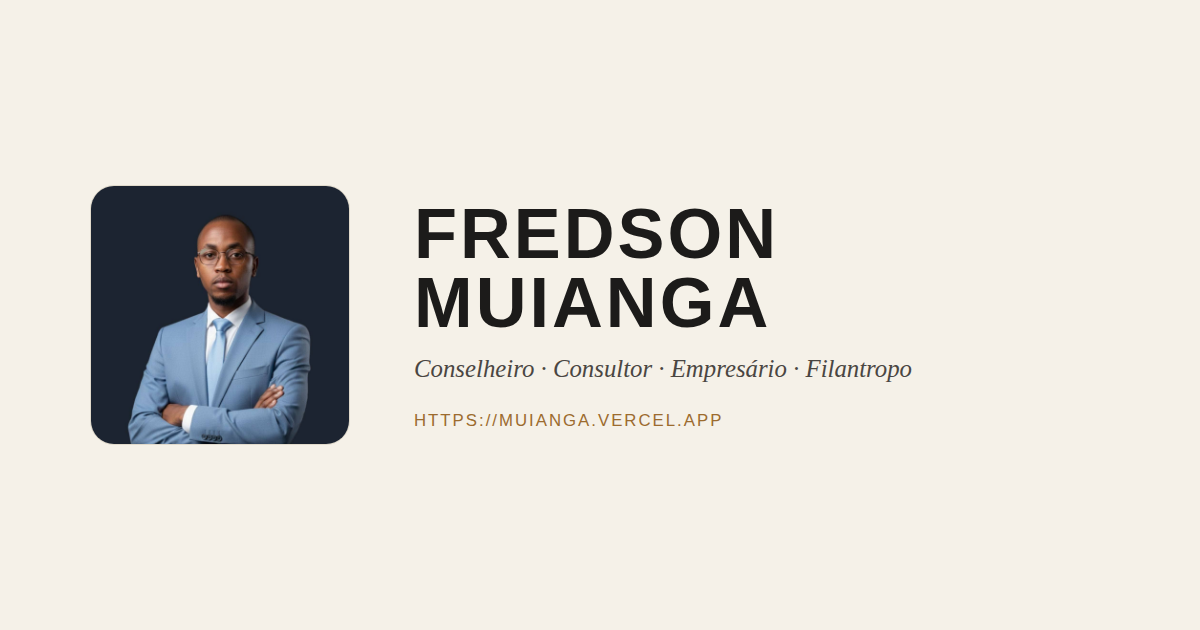
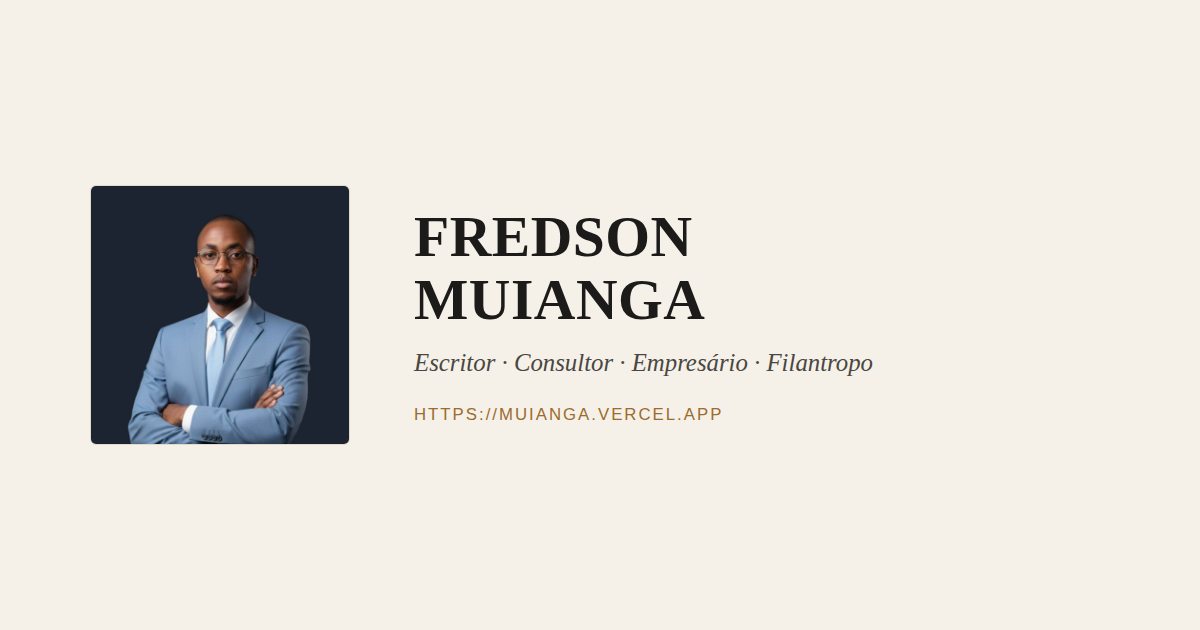
Executive redesign: serif type, sharper corners, new tagline
- Replaced Bebas Neue (condensed poster font) with Playfair Display
  for the name and avatar-fallback initials, both on the site and the
  OG share image — reads as consulting/executive rather than
  magazine-poster.
- Tightened border-radius across cards (socials, contacts, services,
  projects, CTA) for a more formal, less app-like feel.
- Tagline changed from "Conselheiro" to "Escritor" (Escritor ·
  Consultor · Empresário · Filantropo) everywhere it appears.
- Regenerated og-image.png with the new type and copy.

Claude-Session: https://claude.ai/code/session_0174u6W9GAKef4gqCUmcRGAT

diff --git a/og-image.html b/og-image.html
@@ -5,7 +5,7 @@
 <title>OG Image — Fredson Muianga</title>
 <link rel="preconnect" href="https://fonts.googleapis.com">
 <link rel="preconnect" href="https://fonts.gstatic.com" crossorigin>
-<link href="https://fonts.googleapis.com/css2?family=Bebas+Neue&family=Lora:ital@1&family=DM+Sans:wght@300;400;500&display=swap" rel="stylesheet">
+<link href="https://fonts.googleapis.com/css2?family=Playfair+Display:wght@600;700&family=Lora:ital@1&family=DM+Sans:wght@300;400;500&display=swap" rel="stylesheet">
 <style>
   * { box-sizing: border-box; margin: 0; padding: 0; }
   html, body {
@@ -27,7 +27,7 @@
     flex-shrink: 0;
     width: 260px;
     height: 260px;
-    border-radius: 24px;
+    border-radius: 6px;
     object-fit: cover;
     object-position: top center;
     border: 1px solid #E1DACB;
@@ -38,15 +38,17 @@
     display: flex;
     align-items: center;
     justify-content: center;
-    font-family: 'Bebas Neue', sans-serif;
-    font-size: 5rem;
+    font-family: 'Playfair Display', serif;
+    font-weight: 700;
+    font-size: 4.2rem;
   }
   .text { min-width: 0; }
   h1 {
-    font-family: 'Bebas Neue', sans-serif;
-    font-size: 4.4rem;
-    line-height: 0.98;
-    letter-spacing: 3px;
+    font-family: 'Playfair Display', serif;
+    font-weight: 700;
+    font-size: 3.6rem;
+    line-height: 1.1;
+    letter-spacing: 0.5px;
     color: #1C1B1A;
     margin-bottom: 18px;
   }
@@ -71,7 +73,7 @@
[1 lines of base64/hex data omitted]
     <div class="text">
       <h1>FREDSON<br>MUIANGA</h1>
-      <p class="tagline">Conselheiro · Consultor · Empresário · Filantropo</p>
+      <p class="tagline">Escritor · Consultor · Empresário · Filantropo</p>
       <p class="footer">https://muianga.vercel.app</p>
     </div>
   </div>

diff --git a/index.html b/index.html
@@ -4,7 +4,7 @@
 <meta charset="UTF-8">
 
 <meta property="og:type" content="profile">
-<meta property="og:title" content="Fredson Muianga — Conselheiro · Consultor · Empresário · Filantropo">
+<meta property="og:title" content="Fredson Muianga — Escritor · Consultor · Empresário · Filantropo">
 <meta property="og:description" content="Fundador da SonhoEuropa, Muianga Carreiras e ADIEP. Consultoria, Mentoria e Educação Digital em Maputo, Moçambique.">
 <meta property="og:image" content="https://muianga.vercel.app/og-image.png">
 <meta property="og:image:width" content="1200">
@@ -14,20 +14,20 @@
 <meta property="og:site_name" content="Fredson Muianga">
 
 <meta name="twitter:card" content="summary_large_image">
-<meta name="twitter:title" content="Fredson Muianga — Conselheiro · Consultor · Empresário · Filantropo">
+<meta name="twitter:title" content="Fredson Muianga — Escritor · Consultor · Empresário · Filantropo">
 <meta name="twitter:description" content="Fundador da SonhoEuropa, Muianga Carreiras e ADIEP. Consultoria, Mentoria e Educação Digital em Maputo, Moçambique.">
 <meta name="twitter:image" content="https://muianga.vercel.app/og-image.png">
 
-<meta name="description" content="Fredson Muianga — Conselheiro, Consultor, Empresário e Filantropo moçambicano. Fundador da SonhoEuropa, Muianga Carreiras, ADIEP e Muianga Consultores.">
+<meta name="description" content="Fredson Muianga — Escritor, Consultor, Empresário e Filantropo moçambicano. Fundador da SonhoEuropa, Muianga Carreiras, ADIEP e Muianga Consultores.">
 <meta name="author" content="Fredson Muianga">
 <meta name="robots" content="index, follow">
 <meta name="viewport" content="width=device-width, initial-scale=1.0">
 
-<title>Fredson Muianga — Conselheiro · Consultor · Empresário · Filantropo</title>
+<title>Fredson Muianga — Escritor · Consultor · Empresário · Filantropo</title>
 
 <link rel="preconnect" href="https://fonts.googleapis.com">
 <link rel="preconnect" href="https://fonts.gstatic.com" crossorigin>
-<link href="https://fonts.googleapis.com/css2?family=Bebas+Neue&family=Lora:ital@1&family=DM+Sans:wght@300;400;500&display=swap" rel="stylesheet">
+<link href="https://fonts.googleapis.com/css2?family=Playfair+Display:wght@600;700&family=Lora:ital@1&family=DM+Sans:wght@300;400;500&display=swap" rel="stylesheet">
 
 <style>
   :root {
@@ -116,9 +116,10 @@
     color: var(--bg);
     align-items: center;
     justify-content: center;
-    font-family: 'Bebas Neue', sans-serif;
-    font-size: 4.5rem;
-    letter-spacing: 2px;
+    font-family: 'Playfair Display', serif;
+    font-weight: 700;
+    font-size: 3.6rem;
+    letter-spacing: 1px;
   }
 
   .identity-block {
@@ -128,11 +129,12 @@
   }
 
   h1.name {
-    font-family: 'Bebas Neue', sans-serif;
-    font-size: 2.7rem;
-    line-height: 0.95;
-    letter-spacing: 2px;
-    margin: 0 0 0.35rem;
+    font-family: 'Playfair Display', serif;
+    font-weight: 700;
+    font-size: 2.35rem;
+    line-height: 1.08;
+    letter-spacing: 0.5px;
+    margin: 0 0 0.4rem;
     color: var(--ink);
   }
 
@@ -177,7 +179,7 @@
   .social-list {
     background: var(--card);
     border: 1px solid var(--card-border);
-    border-radius: 8px;
+    border-radius: 3px;
     overflow: hidden;
   }
 
@@ -244,7 +246,7 @@
   .contact-list {
     background: var(--card);
     border: 1px solid var(--card-border);
-    border-radius: 8px;
+    border-radius: 3px;
     overflow: hidden;
   }
 
@@ -398,7 +400,7 @@
     background: var(--card);
     border: 1px solid var(--card-border);
     border-left: 3px solid var(--card-border);
-    border-radius: 6px;
+    border-radius: 2px;
     transition: border-color 0.16s ease, transform 0.16s ease;
   }
 
@@ -498,7 +500,7 @@
     width: 100%;
     background: var(--ink);
     color: var(--bg);
-    border-radius: 4px;
+    border-radius: 2px;
     padding: 0.95rem 1rem;
     text-transform: uppercase;
     letter-spacing: 1px;
@@ -537,7 +539,7 @@
 
     <div class="identity-block">
       <h1 class="name">FREDSON<br>MUIANGA</h1>
-      <p class="subtitle">Conselheiro · Consultor · Empresário · Filantropo</p>
+      <p class="subtitle">Escritor · Consultor · Empresário · Filantropo</p>
     </div>
 
     <div class="location">

diff --git a/generate_og.py b/generate_og.py
@@ -30,7 +30,7 @@ INDEX_FILE = BASE_DIR / "index.html"
 BACKUP_FILE = BASE_DIR / "index.html.bak"
 OG_IMAGE_HTML = BASE_DIR / "og-image.html"
 
-OG_TITLE = "Fredson Muianga — Conselheiro · Consultor · Empresário · Filantropo"
+OG_TITLE = "Fredson Muianga — Escritor · Consultor · Empresário · Filantropo"
 OG_DESCRIPTION = (
     "Fundador da SonhoEuropa, Muianga Carreiras e ADIEP. "
     "Consultoria, Mentoria e Educação Digital em Maputo, Moçambique."
@@ -184,7 +184,7 @@ def gerar_og_image_html(site_url: str) -> None:
 <title>OG Image — Fredson Muianga</title>
 <link rel="preconnect" href="https://fonts.googleapis.com">
 <link rel="preconnect" href="https://fonts.gstatic.com" crossorigin>
-<link href="https://fonts.googleapis.com/css2?family=Bebas+Neue&family=Lora:ital@1&family=DM+Sans:wght@300;400;500&display=swap" rel="stylesheet">
+<link href="https://fonts.googleapis.com/css2?family=Playfair+Display:wght@600;700&family=Lora:ital@1&family=DM+Sans:wght@300;400;500&display=swap" rel="stylesheet">
 <style>
   * {{ box-sizing: border-box; margin: 0; padding: 0; }}
   html, body {{
@@ -206,7 +206,7 @@ def gerar_og_image_html(site_url: str) -> None:
     flex-shrink: 0;
     width: 260px;
     height: 260px;
-    border-radius: 24px;
+    border-radius: 6px;
     object-fit: cover;
     object-position: top center;
     border: 1px solid #E1DACB;
@@ -217,15 +217,17 @@ def gerar_og_image_html(site_url: str) -> None:
     display: flex;
     align-items: center;
     justify-content: center;
-    font-family: 'Bebas Neue', sans-serif;
-    font-size: 5rem;
+    font-family: 'Playfair Display', serif;
+    font-weight: 700;
+    font-size: 4.2rem;
   }}
   .text {{ min-width: 0; }}
   h1 {{
-    font-family: 'Bebas Neue', sans-serif;
-    font-size: 4.4rem;
-    line-height: 0.98;
-    letter-spacing: 3px;
+    font-family: 'Playfair Display', serif;
+    font-weight: 700;
+    font-size: 3.6rem;
+    line-height: 1.1;
+    letter-spacing: 0.5px;
     color: #1C1B1A;
     margin-bottom: 18px;
   }}
@@ -250,7 +252,7 @@ def gerar_og_image_html(site_url: str) -> None:
     {foto_bloco}
     <div class="text">
       <h1>FREDSON<br>MUIANGA</h1>
-      <p class="tagline">Conselheiro · Consultor · Empresário · Filantropo</p>
+      <p class="tagline">Escritor · Consultor · Empresário · Filantropo</p>
       <p class="footer">{site_url}</p>
     </div>
   </div>

diff --git a/README.md b/README.md
@@ -1,7 +1,7 @@
 # Fredson Muianga — Link-in-Bio
 
 Landing page pessoal estilo "link-in-bio", estética editorial magazine,
-para Fredson Muianga — Conselheiro, Consultor, Empresário e Filantropo moçambicano
+para Fredson Muianga — Escritor, Consultor, Empresário e Filantropo moçambicano
 baseado em Maputo.
 
 ## Estrutura de ficheiros
